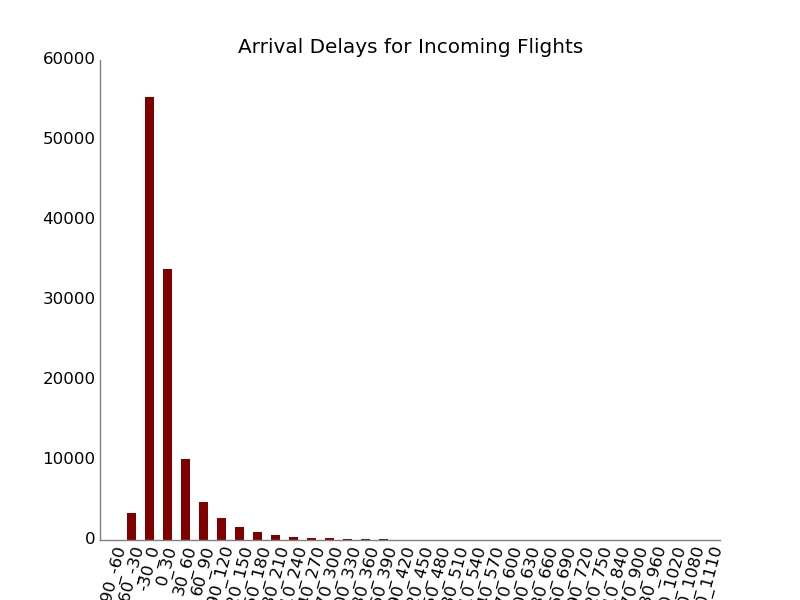
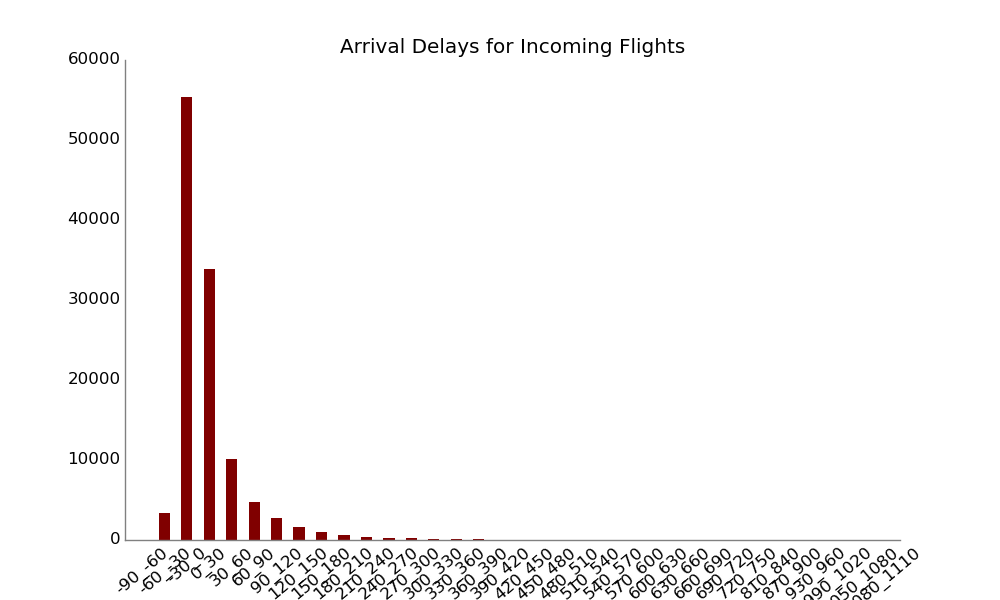
plot

diff --git a/PythonScripts/delay_bins_incoming/histogram.py b/PythonScripts/delay_bins_incoming/histogram.py
@@ -45,7 +45,6 @@ def main():
 	    pass
 
     for k in sorted(bins.keys()):
-        print k, bins[k]
         label = '%d_%d' % (k*30, k * 30 + 30)
 	x_labels.append( label )
         y.append( bins[k] )
@@ -56,11 +55,11 @@ def main():
 
     fig, ax = plt.subplots()
 
-    #fig.set_size_inches(10,6)
+    fig.set_size_inches(10,6)
 
     plt.title('Arrival Delays for Incoming Flights')
     
-    plt.xticks( x + .25, x_labels, rotation=75)
+    plt.xticks( x + .25, x_labels, rotation=40)
     plt.xlim([min(x) - .5, max(x) + 1])
 
     # Hide the right and top spines
